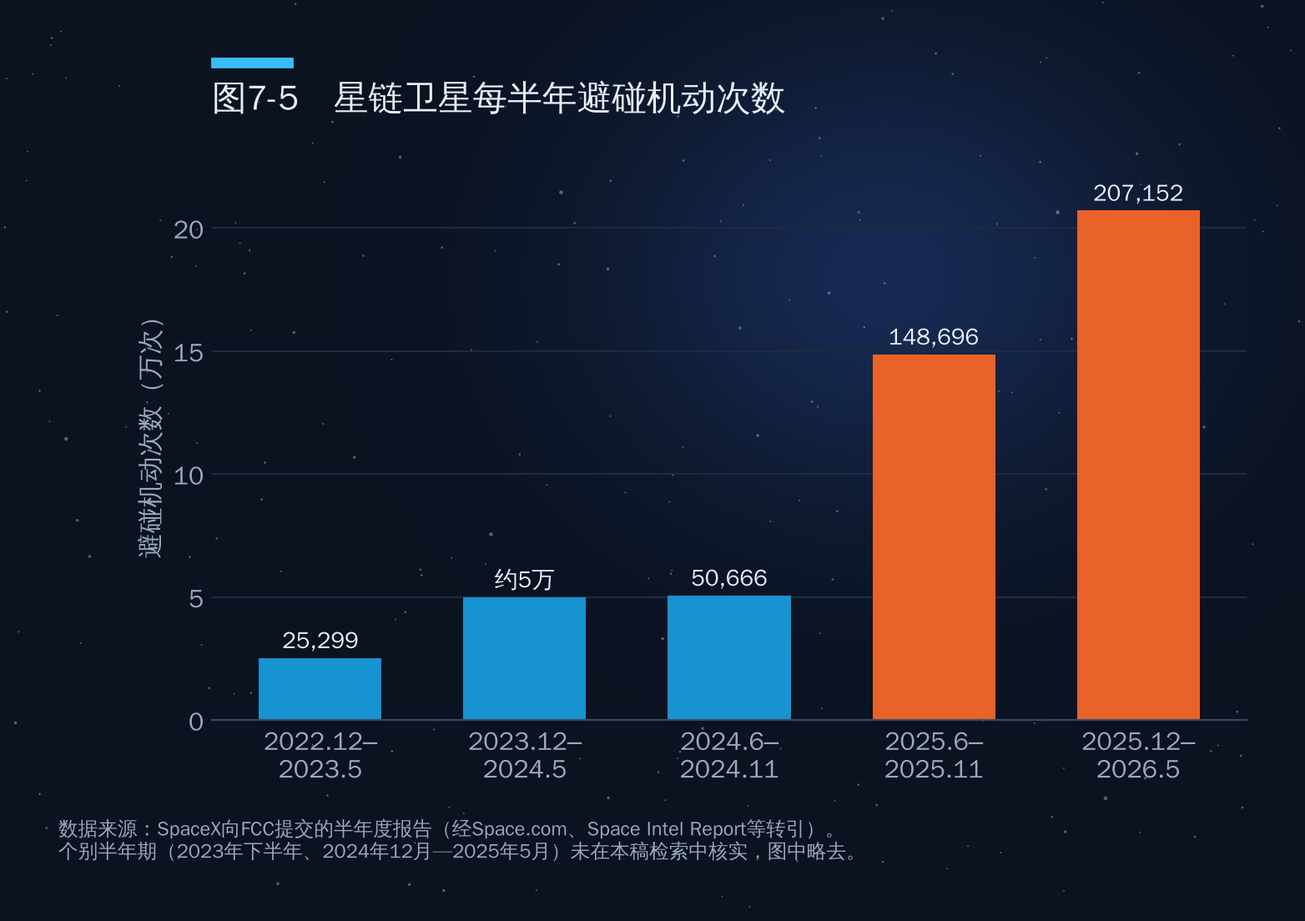
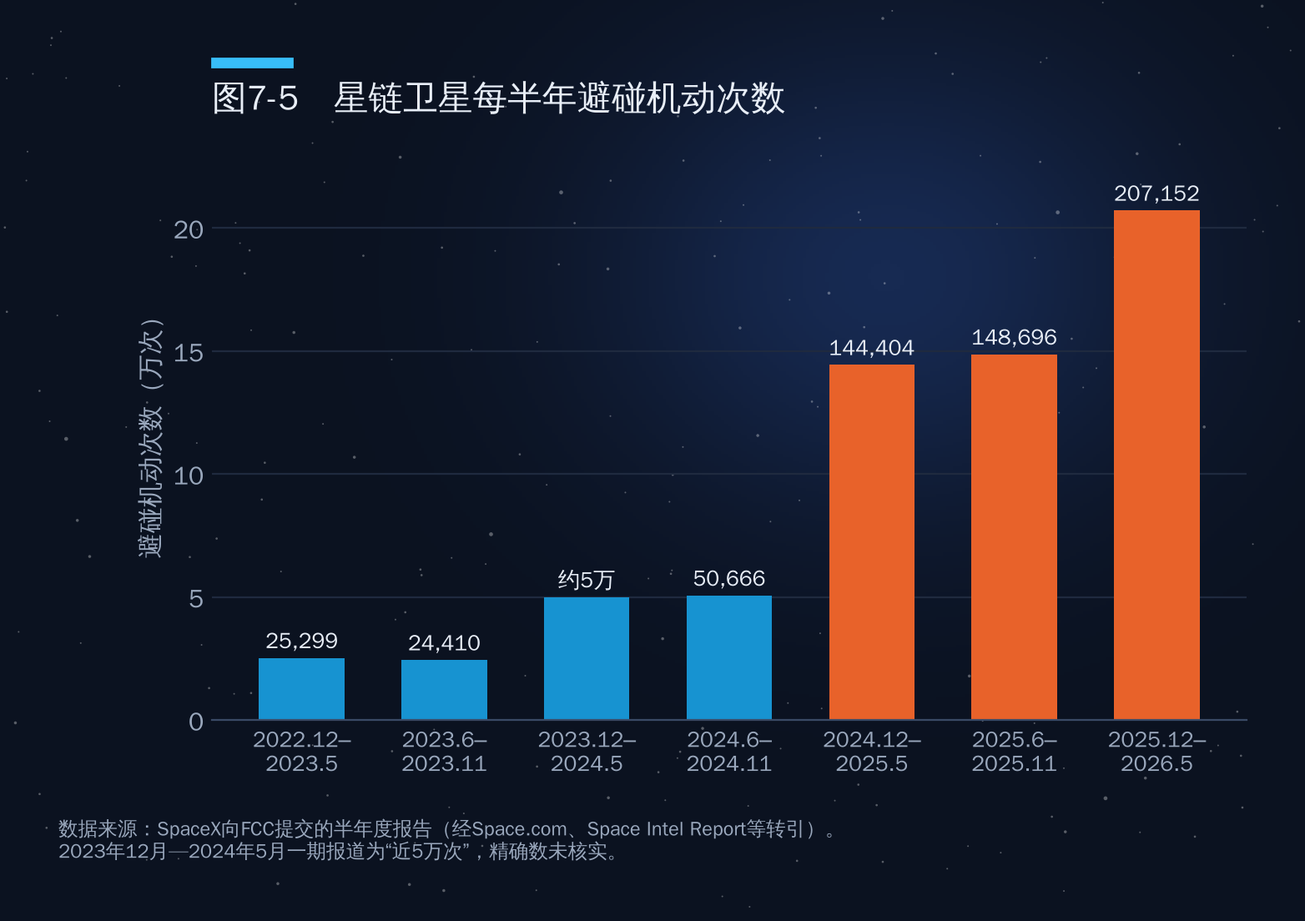
Part I: second-round fact-check updates
Claude-Session: https://claude.ai/code/session_014tmLkR5ogaDPRCKC77QLgm

Changed region(s): [[0.1841, 0.1848, 0.9207, 0.8623], [0.0614, 0.8931, 0.6445, 0.9547]]

diff --git a/doha-space-economy/part5/charts/fig15-1_spaceforce_budget.py b/doha-space-economy/part5/charts/fig15-1_spaceforce_budget.py
@@ -4,11 +4,11 @@ from chartstyle import plt, PALETTE, ACCENT, GREY, save, source_note
 import numpy as np
 
 fig, ax = plt.subplots(figsize=(8.5, 4.8))
-yrs = ["FY2021\n(申请)", "FY2022\n(申请)", "FY2023", "FY2024", "FY2025", "FY2026", "FY2027\n(申请)"]
-base = [15.4, 17.5, 26.3, 28.9, 28.9, 26.135, 59.2]
+yrs = ["FY2021", "FY2022", "FY2023", "FY2024", "FY2025", "FY2026", "FY2027\n(申请)"]
+base = [15.2, 18.1, 26.3, 28.9, 28.9, 26.135, 59.2]
 recon = [0, 0, 0, 0, 0, 13.843, 12.1]
 x = np.arange(len(yrs))
-c = [GREY, GREY, PALETTE[0], PALETTE[0], PALETTE[0], PALETTE[0], ACCENT]
+c = [PALETTE[0], PALETTE[0], PALETTE[0], PALETTE[0], PALETTE[0], PALETTE[0], ACCENT]
 ax.bar(x, base, color=c, width=0.6, label="常规拨款（年度预算）")
 ax.bar(x, recon, bottom=base, color=PALETTE[3], width=0.6, label="“和解法案”（强制性）资金")
 for i in range(len(x)):
@@ -19,6 +19,6 @@ ax.set_ylim(0, 80)
 ax.set_ylabel("十亿美元")
 ax.set_title("美国太空军预算（十亿美元）")
 from matplotlib.patches import Patch
-ax.legend(handles=[Patch(color=GREY, label="总统预算申请（早年）"), Patch(color=PALETTE[0], label="国会最终拨款（常规）"), Patch(color=PALETTE[3], label="“和解法案”（强制性）资金"), Patch(color=ACCENT, label="2027财年申请（常规部分）")], loc="upper left", fontsize=9)
-source_note(fig, "数据来源：国会研究服务处（CRS）、SpacePolicyOnline、Taxpayers for Common Sense、CSIS/Aerospace预算简报；FY2021–22为总统预算申请数（灰色），\nFY2023–26为国会最终拨款数；FY2026另含《大而美法案》138亿美元；FY2027为2026年白宫申请（含121亿美元待和解法案）。不同统计口径略有差异。")
+ax.legend(handles=[Patch(color=PALETTE[0], label="国会最终拨款（常规）"), Patch(color=PALETTE[3], label="“和解法案”（强制性）资金"), Patch(color=ACCENT, label="2027财年申请（常规部分）")], loc="upper left", fontsize=9)
+source_note(fig, "数据来源：国会研究服务处（CRS）、SpacePolicyOnline、Taxpayers for Common Sense、CSIS/Aerospace预算简报；FY2021–26为国会最终拨款数\n（FY2025为全年持续决议，大体沿用FY2024水平）；FY2026另含《大而美法案》138亿美元；FY2027为2026年白宫申请（含121亿美元待和解法案）。不同统计口径略有差异。")
 save(fig, __file__)

diff --git a/doha-space-economy/part2/charts/fig9-3_gov_budget_by_country.py b/doha-space-economy/part2/charts/fig9-3_gov_budget_by_country.py
@@ -1,0 +1,49 @@
+import sys, pathlib
+sys.path.insert(0, str(pathlib.Path(__file__).resolve().parents[2] / "common"))
+from chartstyle import plt, PALETTE, ACCENT, GREY, save, source_note
+
+# Novaspace《Government Space Programs》第24版，2024年政府航天支出（十亿美元，经Statista转引）
+# GDP：IMF《世界经济展望》2025年4月版，2024年名义GDP（十亿美元）；占比为作者计算
+rows = [  # 名称, 支出, GDP（欧盟为机构预算，不计算占比）
+    ("美国", 79.7, 29185),
+    ("中国", 19.9, 18748),
+    ("日本", 6.8, 4026),
+    ("欧盟（机构）", 6.7, None),
+    ("俄罗斯", 4.0, 2161),
+    ("法国", 3.7, 3162),
+    ("德国", 2.8, 4660),
+    ("意大利", 2.6, 2373),
+]
+names = [r[0] for r in rows]
+y = list(range(len(rows)))[::-1]
+fig, axes = plt.subplots(1, 2, figsize=(10, 5), gridspec_kw={"width_ratios": [1.25, 1]})
+
+ax = axes[0]
+cols = [PALETTE[0], ACCENT] + [PALETTE[2]] * 6
+ax.barh(y, [r[1] for r in rows], color=cols, height=0.6)
+for yi, r in zip(y, rows):
+    ax.text(r[1] + 1.2, yi, f"{r[1]:.1f}", va="center", fontsize=10)
+ax.set_yticks(y); ax.set_yticklabels(names)
+ax.set_xlim(0, 92)
+ax.grid(axis="x"); ax.grid(axis="y", visible=False)
+ax.set_xlabel("十亿美元（2024年）")
+ax.set_title("政府航天支出", fontsize=12)
+
+ax = axes[1]
+shares = [(r[1] / r[2] * 100) if r[2] else None for r in rows]
+for yi, s, c in zip(y, shares, cols):
+    if s is None:
+        ax.text(0.005, yi, "不适用", va="center", fontsize=9.5, color=GREY)
+        continue
+    ax.barh(yi, s, color=c, height=0.6)
+    ax.text(s + 0.006, yi, f"{s:.2f}%", va="center", fontsize=10)
+ax.set_yticks(y); ax.set_yticklabels([])
+ax.set_xlim(0, 0.34)
+ax.grid(axis="x"); ax.grid(axis="y", visible=False)
+ax.set_xlabel("占本国GDP比重（%）")
+ax.set_title("投入强度：占GDP比重", fontsize=12)
+
+fig.suptitle("图9-3　主要国家和地区政府航天支出及占GDP比重（2024年）", fontsize=14, fontweight="bold", y=1.02)
+source_note(fig, "数据来源：支出为Novaspace《Government Space Programs》第24版（经Statista转引），含民用与国防；中国为外部估算。\n"
+                 "GDP为IMF《世界经济展望》2025年4月版2024年名义值，占比为作者计算。欧洲各国与欧盟机构的数字口径可能交叉，不宜相加。")
+save(fig, __file__)

diff --git a/doha-space-economy/part4/charts/fig12-4_artemis_vs_ilrs.py b/doha-space-economy/part4/charts/fig12-4_artemis_vs_ilrs.py
@@ -6,13 +6,13 @@ import numpy as np
 regions = ["欧洲", "美洲", "亚太", "中东/西亚", "非洲"]
 # Artemis signatories at end-2025 (59), classified by author from NASA/State Dept list
 artemis = [28, 12, 10, 5, 4]
-# ILRS state partners per public reports (13 incl. China & Russia); Egypt counted as Africa
-ilrs = [3, 2, 5, 0, 3]
+# ILRS state partners per public reports (13 incl. China & Russia); Azerbaijan counted as West Asia (like Armenia), Egypt as Africa
+ilrs = [3, 2, 4, 1, 3]
 y = np.arange(len(regions))
 h = 0.38
 fig, ax = plt.subplots(figsize=(8.6, 4.8))
 b1 = ax.barh(y - h/2, artemis, h, color=PALETTE[0], label="《阿尔忒弥斯协定》签署国（2025年底，59国）")
-b2 = ax.barh(y + h/2, ilrs, h, color=ACCENT, label="国际月球科研站（ILRS）国家伙伴（约13国）")
+b2 = ax.barh(y + h/2, ilrs, h, color=ACCENT, label="国际月球科研站（ILRS）国家伙伴（13国）")
 for bars in (b1, b2):
     for b in bars:
         w = b.get_width()
@@ -26,5 +26,5 @@ ax.set_xlim(0, 33)
 ax.legend(loc="lower right", fontsize=9.5)
 ax.text(32.5, 1.1, "两边都参加：泰国、塞内加尔\n（另有阿联酋沙迦大学等机构\n以非国家身份加入ILRS）", ha="right", fontsize=8.8, color="#444444")
 ax.set_title("图12-4　两种月球规则“朋友圈”的地区构成")
-source_note(fig, "数据来源：NASA/美国国务院签署名单（截至2025年12月，59国，作者按地区归类：中东/西亚含阿联酋、以色列、巴林、沙特、亚美尼亚）；\nILRS伙伴据中国国家航天局公开信息与媒体报道（含中俄，约13国，口径不一，2026年已达76国的阿尔忒弥斯名单未全部纳入）")
+source_note(fig, "数据来源：NASA/美国国务院签署名单（截至2025年12月，59国，作者按地区归类：中东/西亚含阿联酋、以色列、巴林、沙特、亚美尼亚）；\nILRS国家伙伴据中国国家航天局与SpaceNews等报道（含中俄13国，阿塞拜疆计入西亚）；中方口径为17个国家和国际组织（2025年4月）")
 save(fig, __file__)

diff --git a/doha-space-economy/part2/charts/fig7-5_starlink_maneuvers.py b/doha-space-economy/part2/charts/fig7-5_starlink_maneuvers.py
@@ -2,16 +2,17 @@ import sys, pathlib
 sys.path.insert(0, str(pathlib.Path(__file__).resolve().parents[2] / "common"))
 from chartstyle import plt, PALETTE, ACCENT, GREY, save, source_note
 
-periods = ["2022.12–\n2023.5", "2023.12–\n2024.5", "2024.6–\n2024.11", "2025.6–\n2025.11", "2025.12–\n2026.5"]
-vals = [25299, 50000, 50666, 148696, 207152]
-labels = ["25,299", "约5万", "50,666", "148,696", "207,152"]
+periods = ["2022.12–\n2023.5", "2023.6–\n2023.11", "2023.12–\n2024.5", "2024.6–\n2024.11",
+           "2024.12–\n2025.5", "2025.6–\n2025.11", "2025.12–\n2026.5"]
+vals = [25299, 24410, 50000, 50666, 144404, 148696, 207152]
+labels = ["25,299", "24,410", "约5万", "50,666", "144,404", "148,696", "207,152"]
 fig, ax = plt.subplots(figsize=(8, 4.5))
-bars = ax.bar(range(len(vals)), [v/10000 for v in vals], color=[PALETTE[0]]*3 + [ACCENT]*2, width=0.6)
+ax.bar(range(len(vals)), [v/10000 for v in vals], color=[PALETTE[0]]*4 + [ACCENT]*3, width=0.6)
 for i, (v, l) in enumerate(zip(vals, labels)):
-    ax.text(i, v/10000 + 0.4, l, ha="center", fontsize=10)
-ax.set_xticks(range(len(vals))); ax.set_xticklabels(periods)
+    ax.text(i, v/10000 + 0.4, l, ha="center", fontsize=9.5)
+ax.set_xticks(range(len(vals))); ax.set_xticklabels(periods, fontsize=9.5)
 ax.set_ylabel("避碰机动次数（万次）")
 ax.set_ylim(0, 23.5)
 ax.set_title("图7-5　星链卫星每半年避碰机动次数")
-source_note(fig, "数据来源：SpaceX向FCC提交的半年度报告（经Space.com、Space Intel Report等转引）。\n个别半年期（2023年下半年、2024年12月—2025年5月）未在本稿检索中核实，图中略去。")
+source_note(fig, "数据来源：SpaceX向FCC提交的半年度报告（经Space.com、Space Intel Report等转引）。\n2023年12月—2024年5月一期报道为“近5万次”，精确数未核实。")
 save(fig, __file__)

diff --git a/doha-space-economy/part4/charts/fig13-4_asat_norms.py b/doha-space-economy/part4/charts/fig13-4_asat_norms.py
@@ -13,7 +13,7 @@ for bb, v in zip(b, vals):
 ax1.set_ylim(0, 180)
 ax1.set_ylabel("国家数（个）")
 ax1.set_title("联大第77/41号决议表决（2022.12.7）", fontsize=11.5)
-ax1.text(1.5, 60, "反对票含中国、伊朗、白俄罗斯、古巴等；\n印度弃权", ha="center", fontsize=9, color="#444444")
+ax1.text(1.9, 52, "反对（9）：白俄罗斯、玻利维亚、中非、中国、\n古巴、伊朗、尼加拉瓜、俄罗斯、叙利亚\n弃权（9）：印度、巴基斯坦、老挝、马达加斯加、\n塞尔维亚、斯里兰卡、苏丹、多哥、津巴布韦", ha="center", fontsize=8.2, color="#444444")
 # Right: unilateral pledges cumulative
 dates = ["2022.4\n美国首倡", "2023.4", "2025.1"]
 nums = [1, 13, 38]
@@ -25,5 +25,5 @@ ax2.set_ylabel("作出承诺的国家（累计，个）")
 ax2.set_title("承诺不进行破坏性DA-ASAT试验的国家", fontsize=11.5)
 fig.suptitle("图13-4　禁止破坏性反卫星试验：联大投票与各国单边承诺", fontsize=14, fontweight="bold", y=1.03)
 fig.tight_layout()
-source_note(fig, "数据来源：联合国数字图书馆A/RES/77/41表决记录；安全世界基金会（SWF）多边空间安全倡议追踪（2025年1月：美国之外另有37国）；\n四个做过此类试验的国家中，仅美国作出承诺")
+source_note(fig, "数据来源：联合国数字图书馆A/RES/77/41表决记录、SpacePolicyOnline；安全世界基金会（SWF）多边空间安全倡议追踪（2025年1月：美国之外另有37国）；\n四个做过此类试验的国家中，仅美国作出承诺")
 save(fig, __file__)

diff --git a/doha-space-economy/part4/charts/fig12-2_treaty_ratifications.py b/doha-space-economy/part4/charts/fig12-2_treaty_ratifications.py
@@ -4,7 +4,7 @@ from chartstyle import plt, PALETTE, ACCENT, GREY, save, source_note
 
 treaties = ["《外层空间条约》\n(1967)", "《营救协定》\n(1968)", "《责任公约》\n(1972)", "《登记公约》\n(1975)", "《月球协定》\n(1979)"]
 ratified = [118, 100, 100, 78, 17]
-labels = ["118", "约100", "约100", "约78", "17"]
+labels = ["118", "100", "100", "约78", "17"]
 fig, ax = plt.subplots(figsize=(8.6, 4.8))
 cols = [PALETTE[0]] * 4 + [ACCENT]
 bars = ax.bar(treaties, ratified, color=cols, width=0.58)
@@ -17,5 +17,5 @@ ax.annotate("美、俄、中均未加入；\n沙特2024年1月退出", xy=(4, 24
 ax.set_ylim(0, 205)
 ax.set_ylabel("缔约国数量（个）")
 ax.set_title("图12-2　联合国五大外空条约缔约国数量（截至2025年底—2026年初）")
-source_note(fig, "数据来源：UNOOSA《与外空活动有关的国际协定现况》（截至2025年1月1日及2026年1月1日版）、联合国裁军事务厅（马来西亚2025年10月成为OST第118个缔约国）；\n“约”表示不同时点统计略有出入，以UNOOSA最新文件为准")
+source_note(fig, "数据来源：UNOOSA《与外空活动有关的国际协定现况》（截至2025年1月1日及2026年1月1日版）、联合国裁军事务厅（马来西亚2025年10月成为OST第118个缔约国）；\n《登记公约》2025年1月1日为76国，此后厄瓜多尔等加入，2026年初约78国")
 save(fig, __file__)

diff --git a/doha-space-economy/part1/charts/fig6-1_telescopes.py b/doha-space-economy/part1/charts/fig6-1_telescopes.py
@@ -26,5 +26,5 @@ ax.set_xlim(0, 11.5)
 ax.set_xlabel("主镜口径（米）")
 ax.grid(axis="x", color="#E5E5E5"); ax.grid(axis="y", visible=False)
 ax.set_title("图6-1　主要空间望远镜的口径、波段与轨道位置")
-source_note(fig, "数据来源：NASA、ESA、中国载人航天工程办公室公开资料。斜线柱为计划中项目（发射时间以官方最新公布为准）。\n欧空局PLATO（计划2026年底发射）由26台口径12厘米相机组成，未列入。")
+source_note(fig, "数据来源：NASA、ESA、中国载人航天工程办公室公开资料。斜线柱为计划中项目（发射时间以官方最新公布为准）。\n欧空局PLATO（计划2027年初发射）由26台口径12厘米相机组成，未列入。")
 save(fig, __file__)

diff --git a/doha-space-economy/part3/ch10.md b/doha-space-economy/part3/ch10.md
@@ -92,7 +92,7 @@
 
 嫦娥五号样品测得的玄武岩年龄约20亿年，比阿波罗和月球号样品年轻约10亿年，说明月球的火山活动持续时间远比过去认为的长。2022年9月，中国科学家从嫦娥五号样品的14万个颗粒中分离出一颗约10微米的单晶，确认为新的磷酸盐矿物，命名为"嫦娥石"，这是人类在月球上发现的第六种新矿物，中国成为第三个发现月球新矿物的国家。2026年4月，国家航天局又宣布在嫦娥五号样品中发现镁嫦娥石与铈嫦娥石两种新矿物。
 
-关于水，嫦娥五号着陆器的光谱仪首次在月表原位测得月壤含水量约120ppm；此后的样品研究在撞击玻璃珠中发现了太阳风成因的水，并发现了一种分子中含水的含铵矿物。中国科学家还提出了利用月壤中的钛铁矿与太阳风注入的氢反应、加热"产水"的方法——这些都是未来"就地取水"的科学基础。
+关于水，嫦娥五号着陆器的光谱仪首次在月表原位探测到水的信号，估算着陆点月壤含水量不超过约120ppm（2022年《科学进展》）；此后的样品研究在撞击玻璃珠中发现了太阳风成因的水，并发现了一种分子中含水的含铵矿物。中国科学家还提出了利用月壤中的钛铁矿与太阳风注入的氢反应、加热"产水"的方法——这些都是未来"就地取水"的科学基础。
 
 嫦娥六号的成果更具突破性。2025年发表在《自然》上的系列论文显示：月球背面在约42亿年前和28亿年前都有火山活动，持续至少14亿年；背面月幔的含水量仅为每克1—1.5微克，不到正面的三分之一，提示月球正背面"二分性"可能与南极—艾特肯巨型撞击有关；古地磁数据显示月球磁场在约28亿年前可能出现过"反弹"。这批成果入选国家自然科学基金委发布的2025年度"中国科学十大进展"。
 
@@ -100,7 +100,7 @@
 
 探月四期的核心是嫦娥七号和嫦娥八号，二者与此前的嫦娥六号一起构成国际月球科研站的"基本型"。嫦娥七号由轨道器、着陆器、巡视器和一个可以"跳跃"进入永久阴影区的飞跃器组成，目标是月球南极沙克尔顿撞击坑附近，重点勘查水冰和挥发分。它搭载了7个国家和国际组织的6台国际载荷：意大利的激光角反射器、俄罗斯的月尘与电场探测仪、国际月球天文台协会的月基天文望远镜、埃及与巴林联合研制的月表物质超光谱成像仪、瑞士的地球辐射能谱仪和泰国的空间天气监测装置。其中**埃及—巴林联合载荷是阿拉伯国家首次以硬件参与中国探月任务**。
 
-2026年4月，嫦娥七号探测器运抵文昌；7月，长征五号遥十四火箭运抵发射场；8月19日器箭组合体垂直转运至发射区。但8月23日晚，官方宣布"本着稳妥可靠、万无一失的原则，经综合研判，嫦娥七号任务不满足发射条件，不能在今年预定窗口实施"，器箭组合体随后返回总装厂房。官方没有公布具体原因，媒体普遍认为与当时文昌附近的热带风暴天气以及南极着陆区严格的光照条件有关，并预计将推迟到2027年。
+2026年4月，嫦娥七号探测器运抵文昌；7月，长征五号遥十四火箭运抵发射场；8月19日器箭组合体垂直转运至发射区。但8月23日晚，官方宣布"本着稳妥可靠、万无一失的原则，经综合研判，嫦娥七号任务不满足发射条件，不能在今年预定窗口实施"，器箭组合体随后返回总装厂房。官方没有公布具体原因，媒体普遍认为与当时文昌附近的热带风暴天气以及南极着陆区严格的光照条件有关，并预计将推迟到2027年；截至2026年10月上旬，官方仍未公布新的发射日期。
 
 这件事本身就很有说明意义：月球南极的太阳高度角极低，着陆区的光照、通信和温度条件只在一年中的少数时段同时满足，一旦错过就要等很久。南极是月球上资源最丰富的地方，也是工程上最难去的地方。
 
@@ -108,7 +108,7 @@
 
 嫦娥八号计划2028年前后发射，由着陆器、月球车和智能月面机器人组成，最受关注的是"原位资源利用"试验——用聚集的太阳能熔融月壤、以3D打印方式制造"月壤砖"，验证"就地取材盖房子"的可能性。嫦娥八号向国际社会提供了约200公斤的载荷搭载能力，2025年4月公布的10个入选合作项目中，包括巴基斯坦月球车和香港高校研制的月面多功能操作机器人。
 
-国际月球科研站（ILRS）由中国发起，计划在2035年前后于月球南极建成"基本型"，此后扩展为更完整的设施。截至2025年4月，已有17个国家和国际组织、50多个国际科研机构加入合作。2024年4月，阿拉伯天文学和空间科学联盟（AUASS）加入国际月球科研站，这为海湾和阿拉伯国家参与中国主导的月球体系提供了制度化渠道。
+国际月球科研站（ILRS）由中国发起，计划在2035年前后于月球南极建成"基本型"，此后扩展为更完整的设施。截至2025年4月，已有17个国家和国际组织、50多个国际科研机构加入合作（若只计主权国家，约为13国，见第12章）。2024年4月，阿拉伯天文学和空间科学联盟（AUASS）加入国际月球科研站，这为海湾和阿拉伯国家参与中国主导的月球体系提供了制度化渠道。
 
 ### 10.4　其他国家与商业着陆器：月球不好"落"
 
@@ -128,7 +128,7 @@
 
 #### 商业队：从"创世纪号"到"蓝色幽灵"
 
-2019年4月，以色列非营利组织SpaceIL的"创世纪号"成为第一个尝试登月的私营项目，造价约1亿美元，因陀螺仪故障引发连锁反应而坠毁。日本ispace的HAKUTO-R M1（2023年4月）和"韧性"号（Resilience，2025年6月）两次尝试均因高度测量问题坠毁；M1上搭载的阿联酋"拉希德"号月球车也随之损失——这是阿联酋第一次尝试把硬件送上月面。
+2019年4月，以色列非营利组织SpaceIL的"创世纪号"成为第一个尝试登月的私营项目，造价约1亿美元，因陀螺仪故障引发连锁反应而坠毁。日本ispace的HAKUTO-R M1（2023年4月）和"韧性"号（Resilience，2025年6月）两次尝试均因高度测量问题坠毁；M1上搭载的阿联酋"拉希德"号月球车也随之损失——这是阿联酋第一次尝试把硬件送上月面。其第二辆月球车"拉希德2号"原计划搭乘嫦娥七号，2023年因美国出口管制（ITAR）限制而退出；2025年5月改与美国萤火虫航天公司签约，将随"蓝色幽灵"第二次任务前往月球背面，目前目标为2027年。
 
 美国方面，Astrobotic的"游隼"号2024年1月因推进剂泄漏未能抵达月球；直觉机器公司的IM-1"奥德修斯"号2024年2月着陆，成为1972年以来第一个在月球上着陆的美国航天器和第一个商业着陆器，但着陆时一条腿折断、侧躺在月面；2025年3月的IM-2"雅典娜"号再次侧翻。真正意义上的第一次完全成功的商业着陆，属于萤火虫航天公司的"蓝色幽灵"M1：2025年3月2日它稳稳落在危海，完成了约两周的月面作业，甚至拍下了月面日落的画面。
 
@@ -136,7 +136,7 @@
 
 上述美国商业着陆器大多来自NASA的"商业月球有效载荷服务"（CLPS）。2018年启动的CLPS把NASA从"造着陆器的人"变成"买运输服务的人"：NASA只为把载荷送到月面付费，公司自行设计、拥有和运营着陆器，可以同时搭载商业客户。单次任务订单通常在1亿美元上下，远低于传统NASA主导任务。NASA对这种模式的失败率有心理准备，内部把它称为"多次射门"（shots on goal）——只要足够多的"射门"中有一部分成功，总体成本仍比传统模式低。
 
-从结果看，这种模式确实以较低成本快速培育出了美国的商业着陆器产业，但商业着陆的成功率也表明，降低成本和保证可靠性之间存在真实的取舍。2026年，NASA把CLPS的后续任务并入新的"月球基地"计划：6月宣布向Astrobotic、萤火虫和直觉机器三家公司支付约5.9亿美元，执行四次货运任务。但商业运输也面临新的风险：2026年5月28日，蓝色起源"新格伦"火箭一级在静态点火测试中爆炸，严重损毁了其唯一的发射工位，原计划2026年秋发射的"蓝月"MK1着陆器被推迟到2027年初。截至2026年10月，全年尚无新的月面着陆尝试。
+从结果看，这种模式确实以较低成本快速培育出了美国的商业着陆器产业，但商业着陆的成功率也表明，降低成本和保证可靠性之间存在真实的取舍。2026年，NASA把CLPS的后续任务并入新的"月球基地"计划：6月宣布向Astrobotic、萤火虫和直觉机器三家公司支付约5.9亿美元，执行四次货运任务。但商业运输也面临新的风险：2026年5月28日，蓝色起源"新格伦"火箭一级在静态点火测试中爆炸，严重损毁了其唯一的发射工位，原计划2026年秋发射的"蓝月"MK1着陆器被推迟到2027年初。截至2026年10月，全年尚无新的月面着陆尝试：Astrobotic的Griffin-1目标11月发射，直觉机器的IM-3和萤火虫的"蓝色幽灵"第二次任务均已推到2027年。
 
 ### 10.5　阿尔忒弥斯计划：从"插旗"到"建站"
 
@@ -185,18 +185,18 @@
 | 项目 | 中国 | 美国 |
 |---|---|---|
 | 目标时间 | 2030年前 | 阿尔忒弥斯4号，2028年 |
-| 运载火箭 | 长征十号（三芯级，地月转移运力约27吨） | SLS（发射猎户座）+星舰/新格伦（发射着陆器） |
+| 运载火箭 | 长征十号（三芯级，地月转移运力不小于27吨，设计值） | SLS（发射猎户座）+星舰/新格伦（发射着陆器） |
 | 载人飞船 | 梦舟 | 猎户座 |
 | 着陆器 | 揽月（国家研制） | 星舰HLS、蓝月（商业公司研制，需在轨加注） |
 | 飞行模式 | 两次发射，环月轨道交会 | 多次发射，近地轨道加注后飞往月球 |
-| 已完成关键验证 | 梦舟零高度逃逸、揽月着陆起飞综合试验、长征十号系留点火、低空飞行与最大动压逃逸 | 阿尔忒弥斯1号、2号（载人绕月），星舰多次亚轨道试飞 |
-| 主要风险 | 新火箭、新飞船首次入轨飞行尚未进行 | 着陆器在轨加注、隔热罩、预算与政治变动 |
+| 已完成关键验证 | 梦舟零高度逃逸、揽月着陆起飞综合试验、长征十号系留点火、低空飞行与最大动压逃逸；同系列长征十号乙首飞并回收一子级 | 阿尔忒弥斯1号、2号（载人绕月），星舰多次亚轨道试飞 |
+| 主要风险 | 梦舟与长征十号甲首次入轨飞行尚未进行，三芯级长征十号尚未首飞 | 着陆器在轨加注、隔热罩、预算与政治变动 |
 
 #### 2025—2026年的关键试验
 
-中国载人登月的研制节奏在2025年明显加快。2025年6月，梦舟飞船在酒泉完成零高度逃逸飞行试验；8月，揽月着陆器在河北怀来完成着陆起飞综合验证试验，这是中国首次开展地外天体载人着陆器的着陆和起飞验证；同月，长征十号在文昌完成系留点火试验。
+中国载人登月的研制节奏在2025年明显加快。2025年6月17日，梦舟飞船在酒泉完成零高度逃逸飞行试验；8月6日，揽月着陆器在河北怀来完成着陆起飞综合验证试验，这是中国首次开展地外天体载人着陆器的着陆和起飞验证；8月15日和9月12日，长征十号在文昌先后完成两次系留点火试验。
 
-2026年2月11日，长征十号系列火箭在文昌完成低空演示验证与梦舟飞船最大动压逃逸飞行试验：火箭上升到最大动压点时向飞船发出逃逸指令，飞船成功分离，返回舱和火箭一级分别受控溅落于预定海域。这次试验创下多项"首次"——长征十号首次点火飞行、中国首次飞船最大动压逃逸、首次载人飞船返回舱和火箭一级海上溅落。按计划，梦舟一号将于2026年内搭乘长征十号甲执行首次无人入轨飞行，并与天宫空间站对接。
+2026年2月11日，长征十号系列火箭在文昌完成低空演示验证与梦舟飞船最大动压逃逸飞行试验：火箭上升到最大动压点时向飞船发出逃逸指令，飞船成功分离，返回舱和火箭一级分别受控溅落于预定海域。这次试验创下多项"首次"——长征十号首次点火飞行、中国首次飞船最大动压逃逸、首次载人飞船返回舱和火箭一级海上溅落。2026年7月10日，同系列的长征十号乙火箭在海南商业航天发射场首飞成功，一子级由海上平台以网系捕获方式回收，这是中国运载火箭首次实现一子级可控回收。按计划，梦舟一号将于2026年内搭乘长征十号甲执行首次无人入轨飞行，并与天宫空间站对接；截至10月上旬，这次飞行尚未实施。
 
 与美国相比，中国方案的特点是"系统集中、路径保守"：由国家统一研制火箭、飞船和着陆器，不依赖在轨加注等尚未成熟的技术；代价是长征十号的运力和可重复使用程度不及星舰，未来规模化驻留的成本可能更高。可以说，中美之间的竞争已经不是"谁先登月"那么简单，而是"谁能以更低成本、更高频率地持续登月"。
 
@@ -233,7 +233,7 @@
 #### 本章要点
 
 1. 新一轮探月与阿波罗时代的根本区别在于**商业化、可持续驻留和资源利用**：阿波罗花费约3090亿美元（2025年美元）完成6次登月，今天的目标则是以更低成本建立长期设施。
-2. 中国探月工程以"绕、落、回"三步走和"备份升级"模式取得了月背着陆、月背采样等世界首创成果；嫦娥七号因不满足发射条件推迟，预计2027年发射；国际月球科研站已有17个国家和国际组织参与。
+2. 中国探月工程以"绕、落、回"三步走和"备份升级"模式取得了月背着陆、月背采样等世界首创成果；嫦娥七号因不满足发射条件推迟，官方未公布新日期，媒体普遍预计2027年发射；国际月球科研站已有17个国家和国际组织参与。
 3. 美国在2026年完成阿尔忒弥斯2号载人绕月，同时大幅调整架构：阿尔忒弥斯3号改为2027年近地轨道试验，首次登月推迟到2028年的阿尔忒弥斯4号，门户站暂停，转向约200亿美元的"月球基地"计划。
 4. 月面着陆仍是高风险环节：2013年以来15次着陆尝试中，商业任务7次仅1次完全成功。中美竞争的实质是"谁能以更低成本、更高频率持续登月"。
 5. 月球经济以水冰、运输和通信导航为核心，各机构预测的累计规模在数百亿至一千多亿美元之间，未来二三十年仍以政府需求为主；氦-3是远期期权而非近期金矿。

diff --git a/doha-space-economy/part2/ch07.md b/doha-space-economy/part2/ch07.md
@@ -2,7 +2,7 @@
 
 2026年1月1日，SpaceX负责星链工程的副总裁迈克尔·尼科尔斯在社交媒体上宣布：公司将在2026年内把运行在约550公里高度的约4400颗卫星，逐步降到约480公里。这几乎是当时星链在轨卫星的一半。理由并不是信号更好，而是"更安全"：太阳活动正走向低谷，高层大气变稀薄，550公里高度上一颗失控卫星可能要四年多才会坠落；降到480公里，自然衰减时间可缩短80%以上，而且500公里以下的碎片和其他星座也少得多。
 
-一家公司要为上万颗卫星"搬家"，本身就说明了一件事：太空并不是无限的空旷。真正安全、好用、不互相干扰的位置是有限的，而且正在被迅速占据。本章从物理条件讲起，梳理各类轨道的用途与经济价值，再看星链和北斗如何布局、太空碎片如何侵蚀这块"公地"，最后讨论低轨到底还能装下多少卫星。
+一家公司要为上万颗卫星"搬家"，本身就说明了一件事：太空并不是无限的空旷。真正安全、好用、不互相干扰的位置是有限的，而且正在被迅速占据。
 
 ### 7.1　太空并非无限：为什么轨道"位置有限"
 
@@ -34,7 +34,7 @@
 
 值得注意的是，约400公里的空间站和约480—550公里的星链卫星其实都在"热层"之内。这里的稀薄空气仍会对高速卫星产生阻力，所以低轨卫星必须定期点火"抬轨"。
 
-关于太空的边界，最常用的是**卡门线**——海拔100公里，由国际航空联合会（FAI）用于纪录认定，但并非国际法规定的边界。美国空军、NASA等习惯以80公里（50英里）为界；麦克道尔2018年在《宇航学报》撰文论证，约80公里的中间层顶是更合理的物理边界。国际上至今没有具有法律效力的"太空边界"。（注：作者原图在100公里处标注"伽马射线100千米"，按通常含义应为"卡门线100千米"，建议作者确认后修改原图标注。）
+关于太空的边界，最常用的是**卡门线**——海拔100公里，由国际航空联合会（FAI）用于纪录认定，但并非国际法规定的边界。美国空军、NASA等习惯以80公里（50英里）为界；麦克道尔2018年在《宇航学报》撰文论证，约80公里的中间层顶是更合理的物理边界。国际上至今没有具有法律效力的"太空边界"。（原图100公里处的"伽马射线"应为"卡门线"之误。）
 
 ### 7.3　轨道"地图"：六类轨道的定义、用途与经济价值
 
@@ -72,7 +72,7 @@
 
 地球静止轨道是轨道稀缺性最典型的例子。它只有一条：赤道正上方35786公里、与地球自转同步的圆轨道。卫星在这里绕地球一圈恰好一个恒星日，从地面看就像"钉"在天上，地面天线不需要跟踪就能对准。
 
-这条环形轨道能放多少颗卫星？作者提纲给出"约1800个"，这一数字有出处，但需要说明口径。赤道一圈360°，若按0.2°的间隔划分，理论上是1800个"格子"；但实际运营中，为避免同频干扰，同一频段相邻卫星通常要相隔2°—3°，按2°计算只有约180个可用轨位，按3°只有约120个。现实中，同一经度位置可以通过不同频段、甚至"共位"技术安放多颗卫星，所以在轨卫星数（约570颗）多于单频段的轨位数。换言之，**几何上的格子不稀缺，"某一频段、某一服务区域上空"的轨位才稀缺**。
+这条环形轨道能放多少颗卫星？常见说法"约1800个"需要说明口径。赤道一圈360°，若按0.2°的间隔划分，理论上是1800个"格子"；但实际运营中，为避免同频干扰，同一频段相邻卫星通常要相隔2°—3°，按2°计算只有约180个可用轨位，按3°只有约120个。现实中，同一经度位置可以通过不同频段、甚至"共位"技术安放多颗卫星，所以在轨卫星数（约570颗）多于单频段的轨位数。换言之，**几何上的格子不稀缺，"某一频段、某一服务区域上空"的轨位才稀缺**。
 
 不同经度的价值也天差地别，人口稠密、经济发达地区上空的轨位最抢手。卡塔尔的Es'hailSat公司是一个例子：其Es'hail-2卫星于2018年11月由猎鹰9号发射，定点在东经25.5°附近，为中东和北非提供电视广播与通信服务，并搭载了全球首个静止轨道业余无线电转发器。对一个人口不多的国家来说，这意味着在区域媒体与通信格局中拥有一席之地。
 
@@ -87,12 +87,12 @@
 作者提纲写道"SpaceX拿到监管许可的星座总上限为42000颗"，这一表述需要修正。42000颗是SpaceX向监管机构和国际电信联盟提出的规划总量，而非已获得的许可。梳理美国联邦通信委员会（FCC）的审批历程：
 
 - 2018年3月，FCC批准第一代星座约4400颗（后经2020年修改许可，确定为4408颗，分布在540—570公里的五个壳层）；
-- 2018年11月，FCC批准在约340公里甚低轨部署7518颗V频段卫星；
+- 2018年11月，FCC批准在约340公里甚低轨部署7518颗V频段卫星（后改由第二代卫星搭载V频段载荷实施）；
 - 2019年10月，经FCC向国际电信联盟提交合计30000颗卫星的申报，加上已获批的约12000颗，构成了"42000颗"这一数字；
 - 2022年12月，FCC对SpaceX近30000颗第二代星座的申请只批准了7500颗，部署在525、530、535公里三个壳层，倾角分别为53°、43°和33°；
 - 2026年1月9日，FCC再批准7500颗第二代卫星，使第二代获批总数达到15000颗，同时批准了340—365公里和475—485公里等新的低高度壳层，要求2028年12月前完成50%部署、2031年12月前全部完成；其余14988颗（主要是600公里以上的部分）继续暂缓审批。
 
-因此，比较准确的说法是：截至2026年10月，星链获FCC批准的规模为第一代4408颗加第二代15000颗，约1.9万颗；"42000颗"是其向国际电信联盟申报的远期规划上限。
+因此，比较准确的说法是：截至2026年10月，星链获FCC批准的规模为第一代4408颗加第二代15000颗，约1.9万颗（V频段系统已搭载于第二代卫星，不另计，以免重复）；"42000颗"是其向国际电信联盟申报的远期规划上限。此后申报仍在加码（2025年12月约1.5万颗甚低轨、2026年7月约10万颗第三代），均未获批。
 
 #### 轨道壳层：从550公里到"下沉"
 
@@ -106,7 +106,7 @@
 
 第二，**星链正在整体"下沉"**。约4400颗卫星降至约480公里，新批壳层集中在485公里以下、低至340公里。好处是时延更低、失效卫星坠落更快，代价是需要更多推进剂抵抗阻力。
 
-第三，**V3卫星的"275公里"是入轨高度，不是工作高度**。2026年9月28日，星舰第14次飞行首次进入地球轨道，部署了首批26颗星链V3卫星。据飞行前公布的计划和发射后报道，星舰此次运行在约275公里的低轨，卫星释放后将依靠自身推进器升至工作轨道。作者提纲称V3"运行在275公里超低轨道"，宜改为"在约275公里高度释放入轨，随后自行升轨"。SpaceX公布的V3单星下行容量约1Tbps，约为V2 Mini的10倍。
+第三，**V3卫星的"275公里"是入轨高度，不是工作高度**。2026年9月28日，星舰第14次飞行首次进入地球轨道，部署了首批26颗星链V3卫星。据飞行前公布的计划和发射后报道，星舰此次运行在约275公里的低轨，卫星释放后将依靠自身推进器升至工作轨道。SpaceX公布的V3单星下行容量约1Tbps，约为V2 Mini的10倍。
 
 #### 中国星座：从"申报"到"部署"的追赶
 
@@ -139,7 +139,7 @@
 
 ![图7-B　北斗卫星导航系统三类轨道示意（作者原图）](../source/image1.jpeg)
 
-全球四大卫星导航系统中，美国GPS、俄罗斯格洛纳斯、欧洲伽利略都以中轨卫星为主，而中国北斗采用了独特的**混合星座**。按中国卫星导航系统管理办公室的公开资料，北斗三号基本星座由30颗卫星组成：24颗中圆地球轨道（MEO）卫星，轨道高度约21500公里，负责全球覆盖；3颗倾斜地球同步轨道（IGSO）卫星和3颗地球静止轨道（GEO）卫星，轨道高度约35786公里，重点增强亚太地区的服务。作者提纲中"24+3+3"的表述是准确的。这30颗卫星于2017年11月至2020年6月23日间发射完毕，2020年7月31日北斗三号全球卫星导航系统正式开通。另有部分北斗二号卫星仍在轨服务，因此在轨北斗卫星总数多于30颗。
+全球四大卫星导航系统中，美国GPS、俄罗斯格洛纳斯、欧洲伽利略都以中轨卫星为主，而中国北斗采用了独特的**混合星座**。按中国卫星导航系统管理办公室的公开资料，北斗三号基本星座由30颗卫星组成：24颗中圆地球轨道（MEO）卫星，轨道高度约21500公里，负责全球覆盖；3颗倾斜地球同步轨道（IGSO）卫星和3颗地球静止轨道（GEO）卫星，轨道高度约35786公里，重点增强亚太地区的服务。这30颗卫星于2017年11月至2020年6月23日间发射完毕，2020年7月31日北斗三号全球卫星导航系统正式开通。另有部分北斗二号卫星仍在轨服务，因此在轨北斗卫星总数多于30颗。
 
 如作者原图（图7-B）所示，三类轨道各有分工：MEO卫星像一张覆盖全球的网；IGSO卫星的星下点在亚太上空画出"8"字形轨迹，持续增强区域可见星数量；GEO卫星定点在赤道上空，除导航信号外，还承载北斗特有的区域短报文通信和星基增强服务。
 
@@ -151,7 +151,7 @@
 
 #### 最新数字：被跟踪物体超过4万个
 
-按ESA《2025年空间环境报告》（数据截至2024年底），空间监视网络持续跟踪的物体约4万个，其中活跃载荷约1.1万个。基于模型估算，直径大于10厘米的物体约5.4万个，1—10厘米的约120万个，1毫米至1厘米的约1.3亿个。ESA空间环境统计在2026年7月31日的更新显示：被常规跟踪的物体约47070个，仍在太空的卫星约18840颗，其中仍在工作的约15900颗；有记录的解体、爆炸、碰撞或异常碎裂事件超过660起。不同机构的口径不同：NASA轨道碎片项目办公室2026年8月的统计中，美国空间监视网络正式编目的在轨物体约34054个。被"跟踪"与被"正式编目"并不是一回事，引用时应注明口径。
+按ESA《2025年空间环境报告》（数据截至2024年底），空间监视网络持续跟踪的物体约4万个，其中活跃载荷约1.1万个。基于模型估算，直径大于10厘米的物体约5.4万个，1—10厘米的约120万个，1毫米至1厘米的约1.3亿个。ESA空间环境统计在2026年7月31日的更新显示：被常规跟踪的物体约47070个，仍在太空的卫星约18840颗，其中仍在工作的约15900颗；不同机构的口径不同：NASA轨道碎片项目办公室2026年8月的统计中，美国空间监视网络正式编目的在轨物体约34054个。被"跟踪"与被"正式编目"并不是一回事，引用时应注明口径。
 
 活跃卫星的增长速度更为惊人。如图7-4所示，全球在轨活跃卫星从2019年的约2200颗增长到2026年9月底的约16900颗，七年增长约7倍，主要由星链驱动。
 
@@ -167,7 +167,7 @@
 |---|---|---|---|---|
 | 2007年1月 | 中国反卫星试验击毁风云一号C | 约865公里 | 3000余块（一说3531块） | 史上单次产生编目碎片最多的事件，高度高，大部分碎片将在轨数十年以上 |
 | 2009年2月10日 | 美国铱星33号与俄罗斯宇宙2251号意外相撞 | 约789公里 | 2000余块 | 首次两颗完整卫星意外高速碰撞，凯斯勒预言首次"兑现" |
-| 2019年3月 | 印度"沙克提任务"反卫星试验 | 约280公里 | 约400块 | 高度低，碎片大多在数年内再入 |
+| 2019年3月 | 印度"沙克提任务"反卫星试验 | 约280公里 | 约400块（NASA估计，编目约100块） | 高度低，碎片大多在数月内再入，少数被抛至空间站轨道以上 |
 | 2021年11月15日 | 俄罗斯反卫星试验击毁宇宙1408号 | 约480公里 | 1500余块 | 国际空间站乘员一度进入飞船避险；碎片已大部分再入 |
 
 这些事件说明：**高度决定后果的持续时间**，800公里以上的碎片可在轨数十年乃至上百年；**反卫星试验是人为碎片的重要来源**。2022年美国宣布不再进行破坏性直接上升式反卫星试验，联合国大会随后通过决议呼吁各国作出类似承诺，但这一规范尚未成为普遍约束。
@@ -184,7 +184,7 @@
 
 ![图7-5　星链卫星每半年避碰机动次数](charts/fig7-5_starlink_maneuvers.png)
 
-从2022年12月至2023年5月的25299次，到2025年12月至2026年5月的207152次，三年间半年度机动次数增长约8倍，快于星链卫星数量的增长。机动越多，消耗的推进剂越多，卫星寿命越短，对运营者之间的数据共享和协调要求也越高。2025年12月，一颗星链卫星在约418公里高度发生异常，产生少量碎片并失去联系，这也是SpaceX决定整体降轨的直接背景之一。
+从2022年12月至2023年5月的25299次，到2025年12月至2026年5月的207152次，三年间半年度机动次数增长约8倍，快于星链卫星数量的增长。其中2024年12月至2025年5月一期跃升至144404次，据报道部分原因是SpaceX调低了触发机动的碰撞概率门槛，因此机动次数并不完全等同于碰撞风险的同比上升。机动越多，消耗的推进剂越多，卫星寿命越短，对运营者之间的数据共享和协调要求也越高。2025年12月，一颗星链卫星在约418公里高度发生异常，产生少量碎片并失去联系，这也是SpaceX决定整体降轨的直接背景之一。
 
 ### 7.9　低轨承载力：轨道到底能装多少卫星？
 
